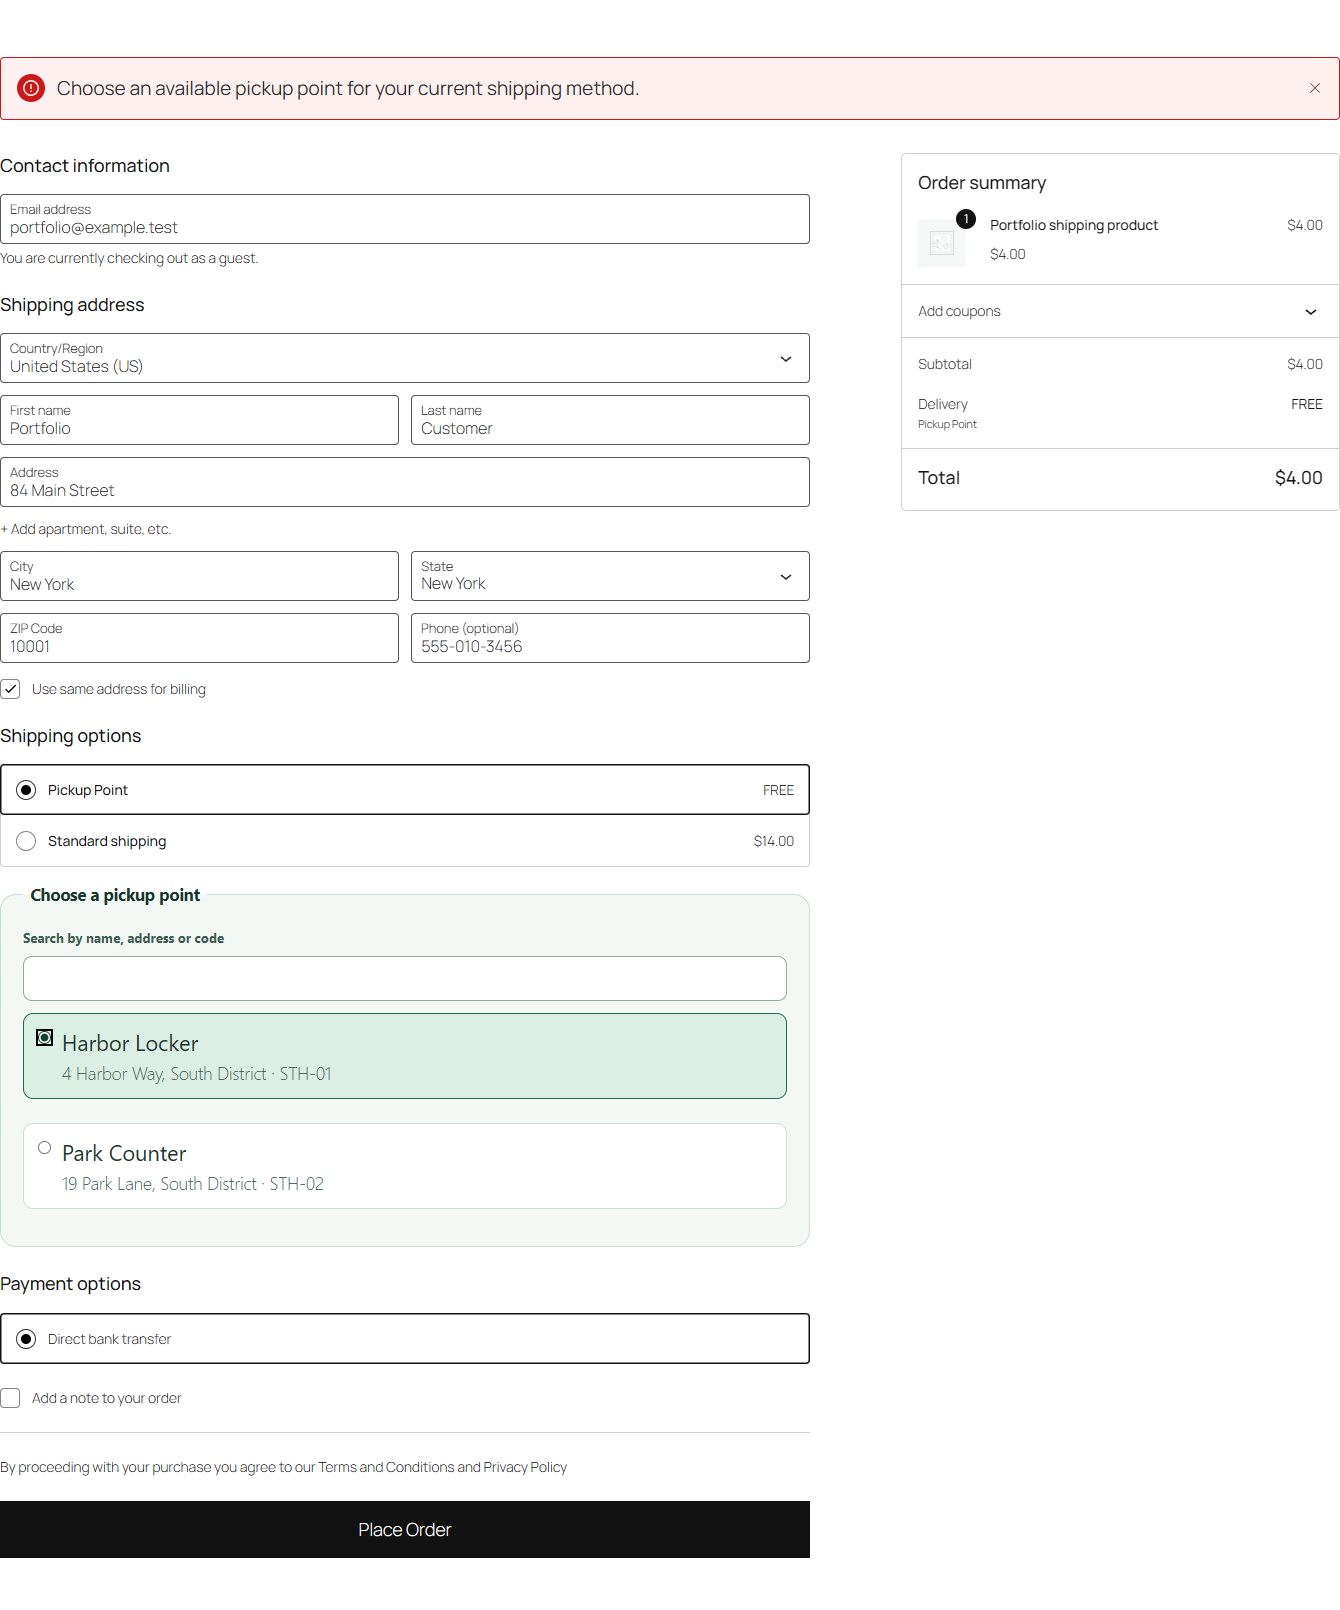
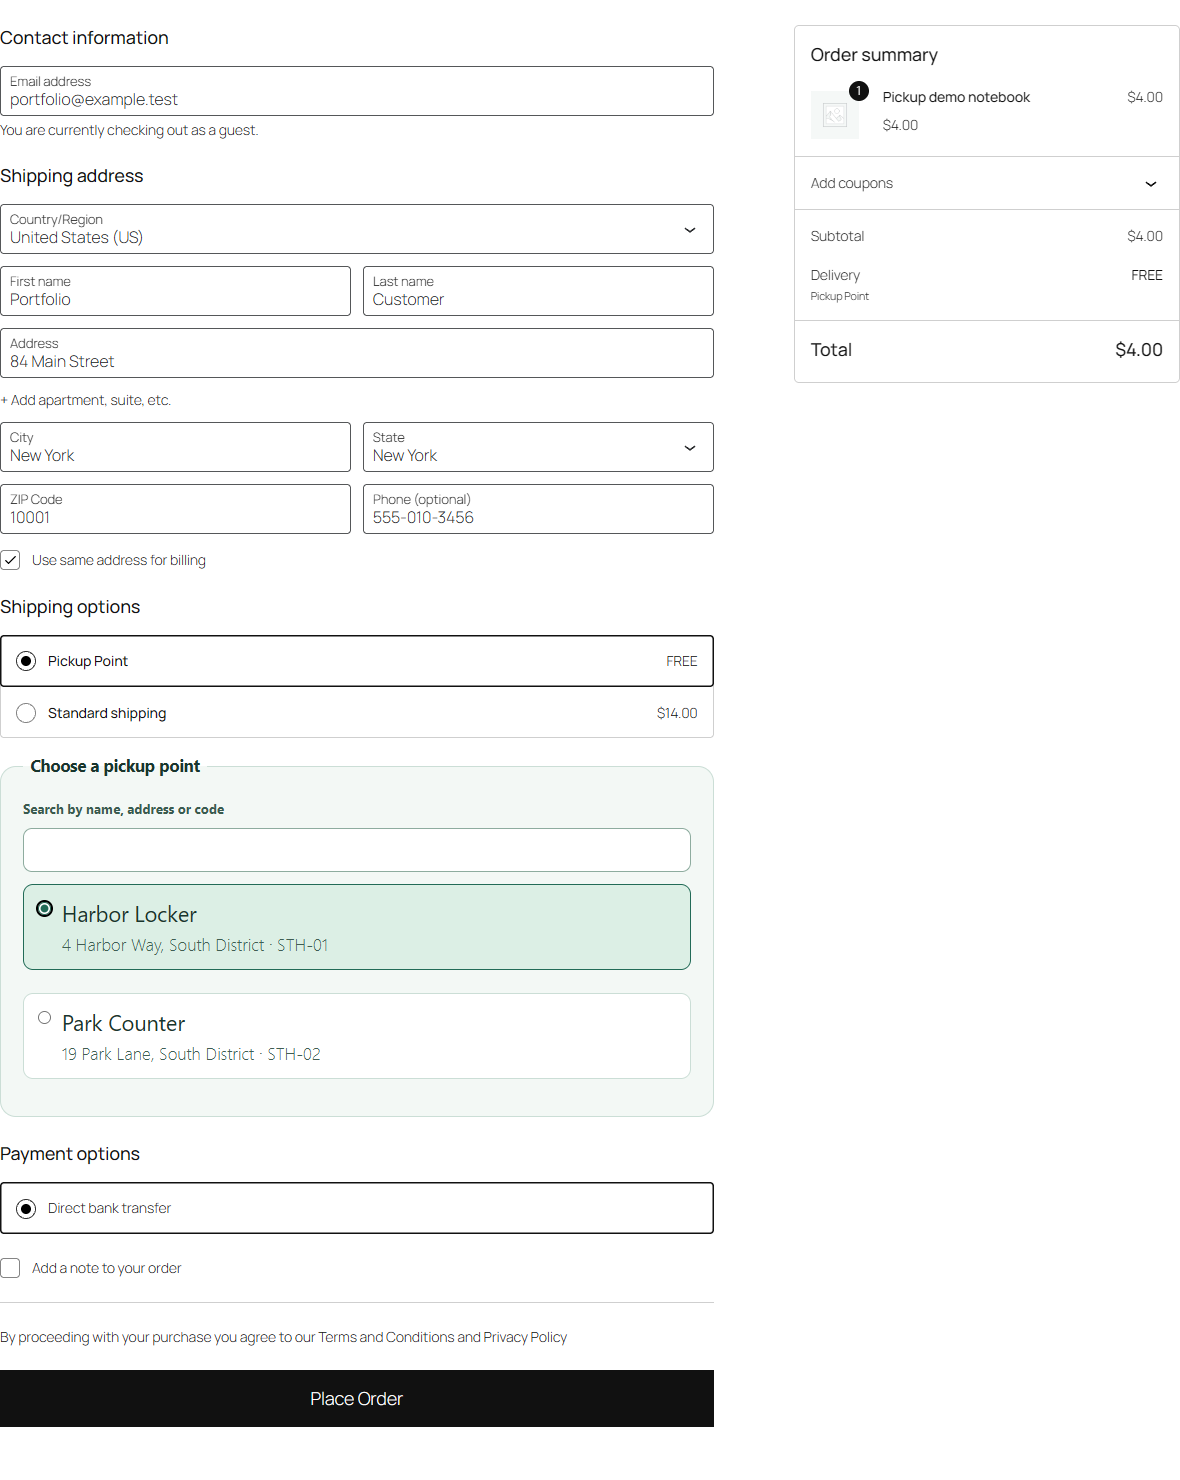
Use English screenshots and verify the portfolio evidence

diff --git a/README.md b/README.md
@@ -11,16 +11,18 @@ Customers need to find a pickup point, and checkout must check that it still mat
 ## Checkout preview
 
 <p align="center">
-  <a href="docs/checkout-block.png"><img src="docs/checkout-block.png" width="714" alt="Market Counter selected in the WooCommerce checkout pickup-point picker"></a>
+  <a href="docs/checkout-block.png"><img src="docs/checkout-block.png" width="714" alt="Harbor Locker selected in the WooCommerce Block Checkout pickup-point picker"></a>
   <br>
-  <em>Block checkout · Market Counter selected after searching for NTH-02</em>
+  <em>Block checkout · Harbor Locker selected for a New York shipping address</em>
 </p>
+
+[Classic Checkout pickup panel](docs/checkout-classic.png) · [Mobile pickup panel](docs/checkout-mobile.png)
 
 <details>
 <summary>View the saved pickup point in the order editor</summary>
 
 <p align="center">
-  <a href="docs/order-pickup-point.png"><img src="docs/order-pickup-point.png" width="240" alt="Saved pickup point and address in WooCommerce order shipping details"></a>
+  <a href="docs/order-pickup-point.png"><img src="docs/order-pickup-point.png" width="760" alt="Harbor Locker and its saved pickup address in WooCommerce order shipping details"></a>
   <br>
   <em>HPOS order details · stored pickup point and address</em>
 </p>
